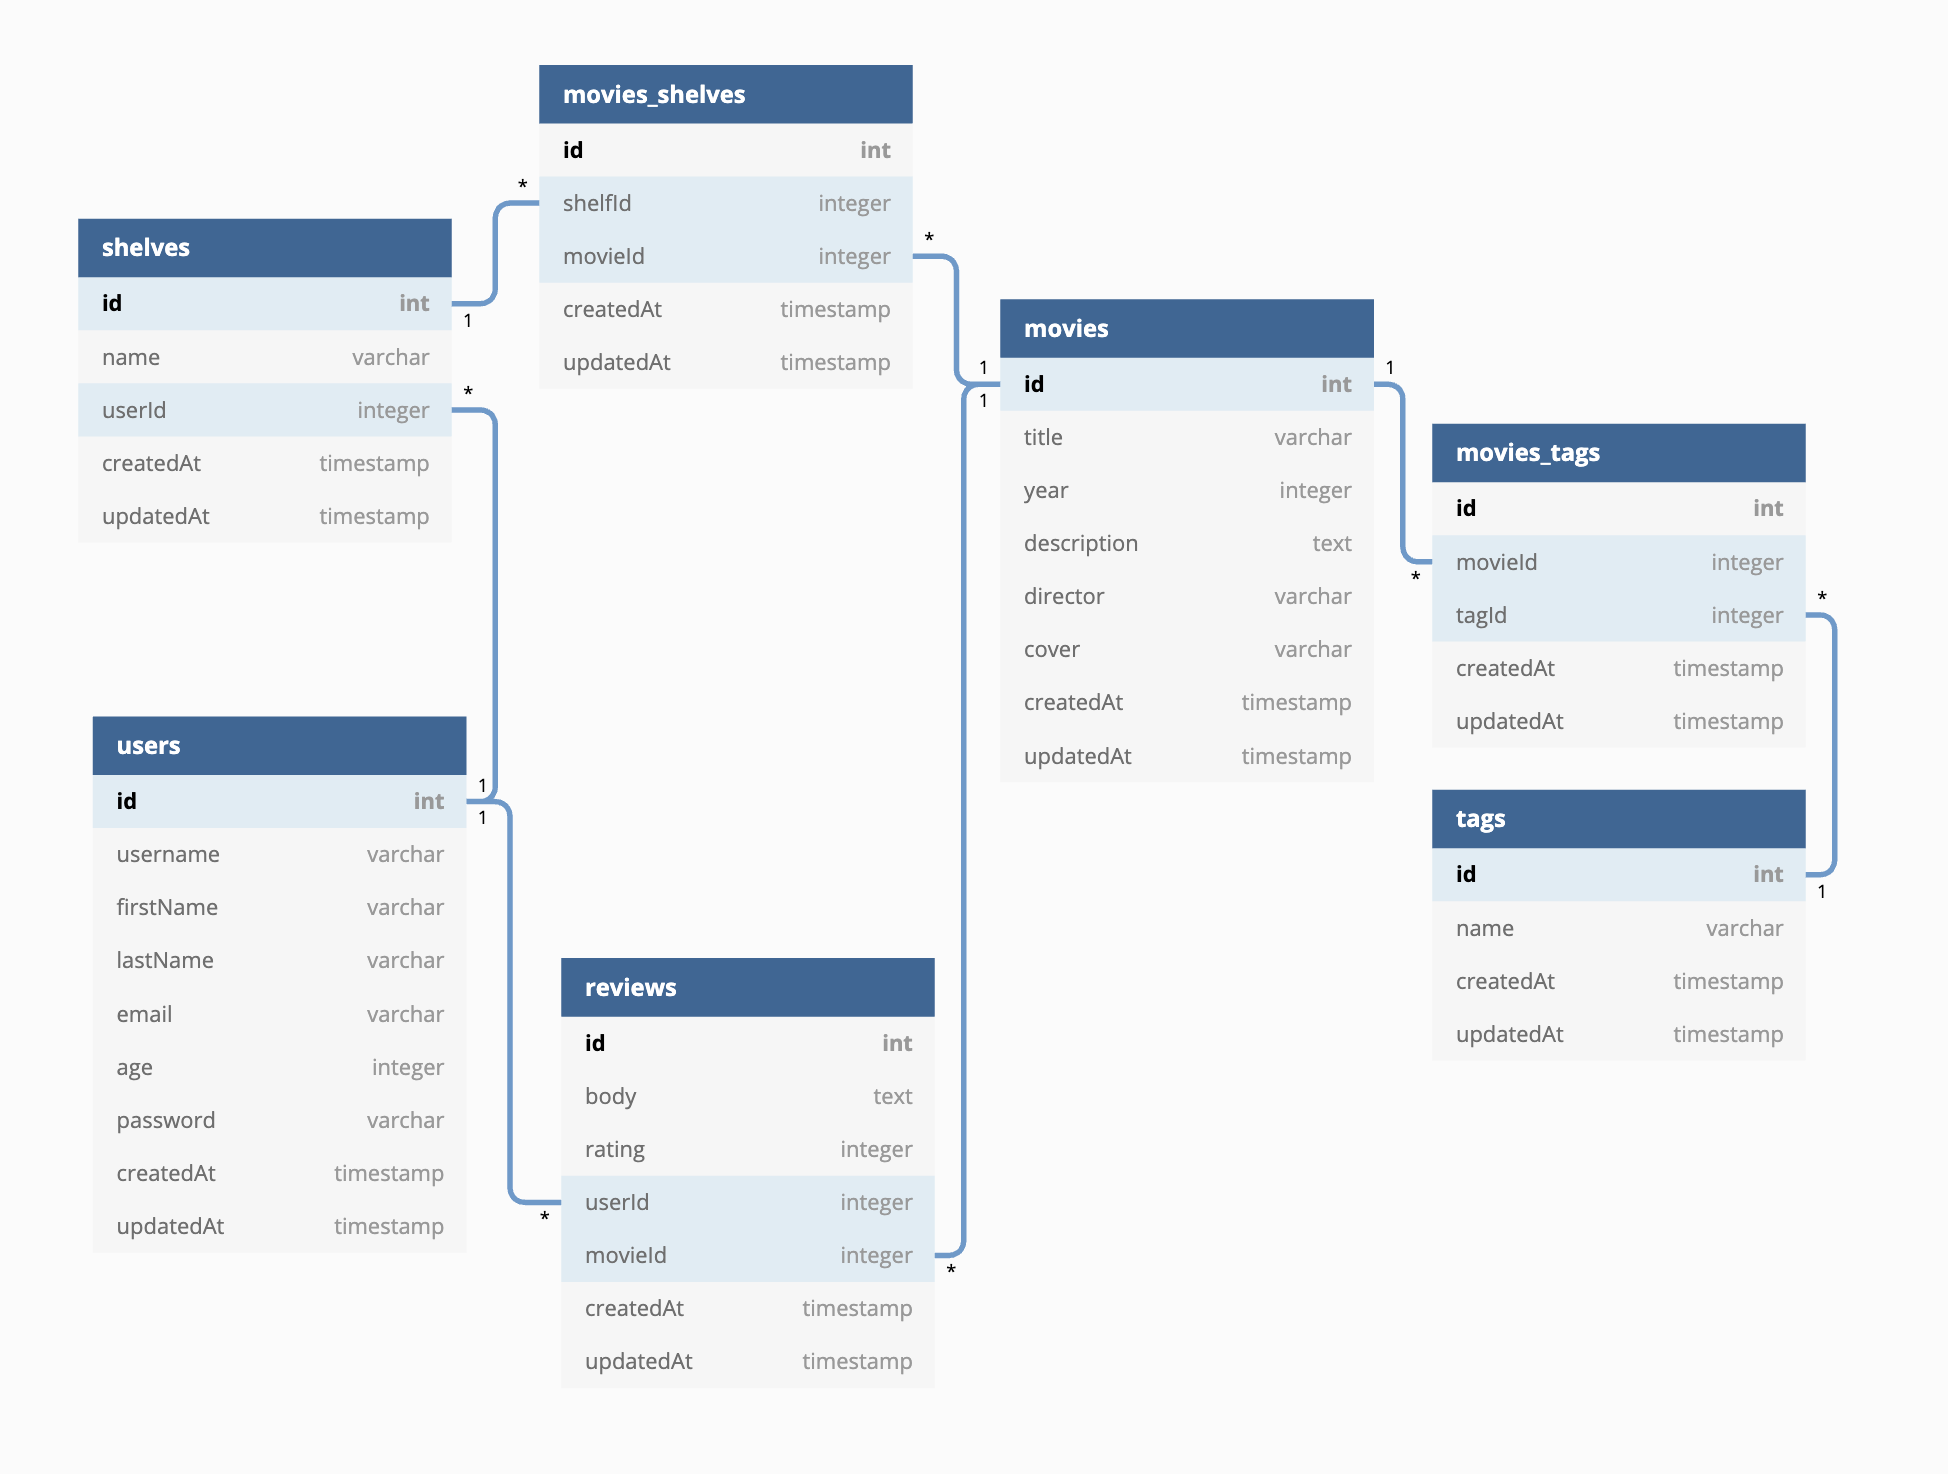
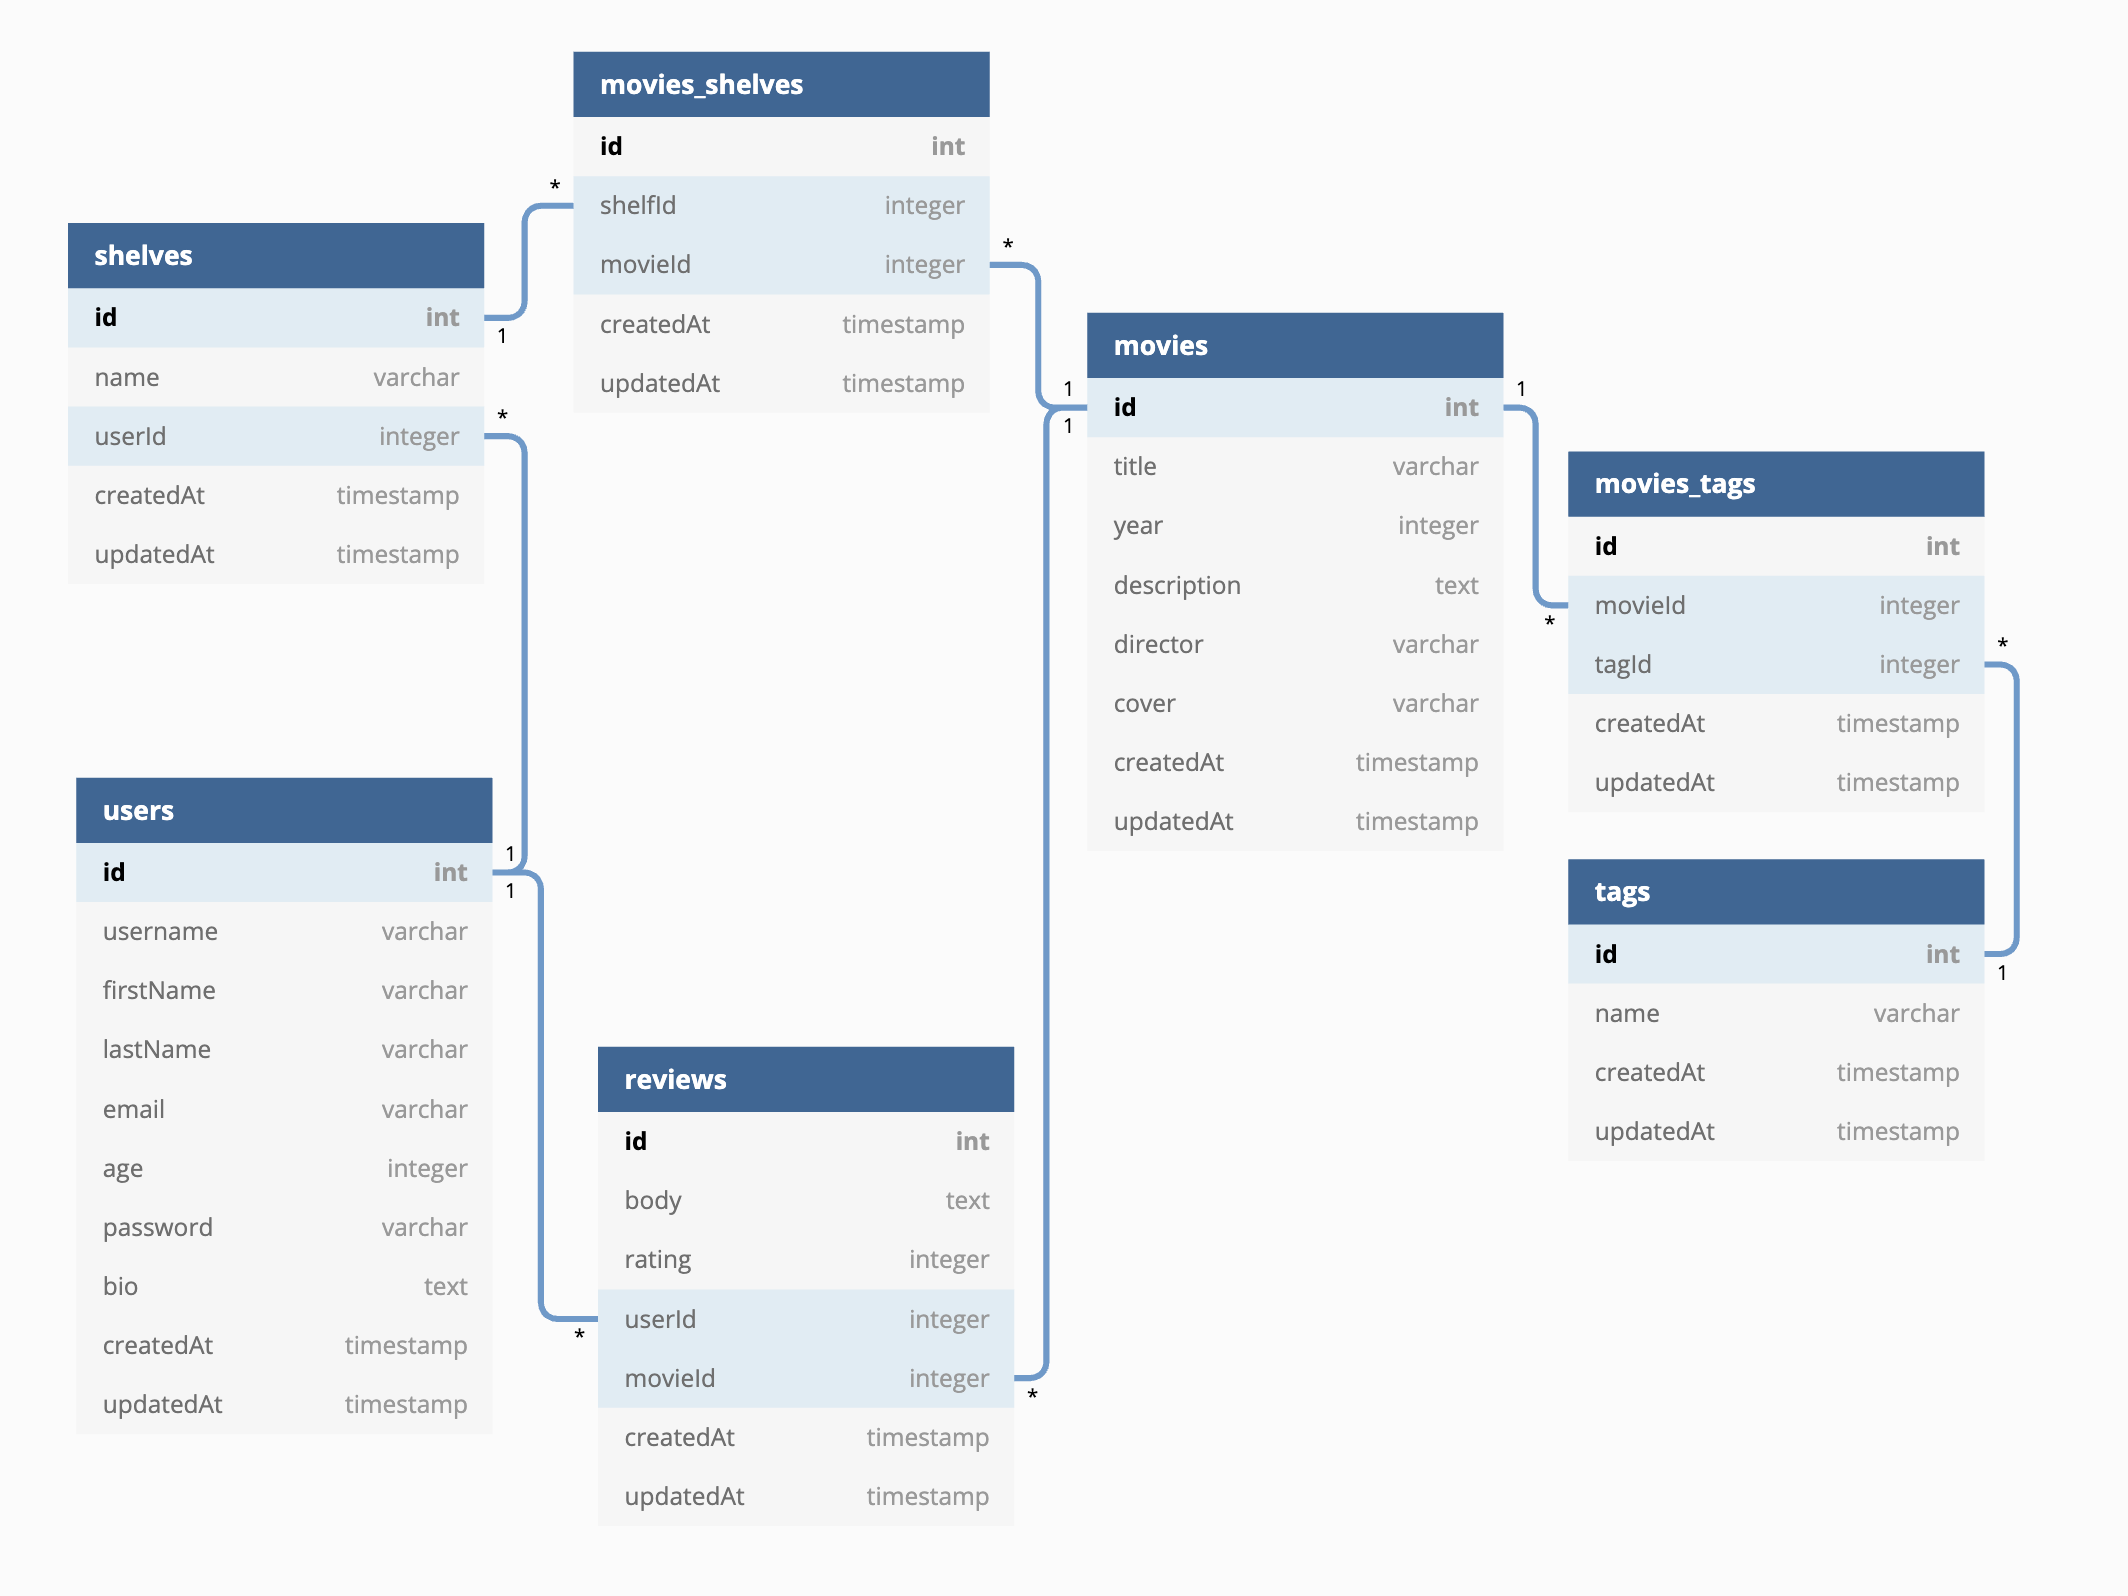
Footer image, spacing, review divider, db additions, images

diff --git a/db/seeders/20210727155522-default-users.js b/db/seeders/20210727155522-default-users.js
@@ -16,6 +16,7 @@ module.exports = {
 					email: 'demo@demo.com',
 					age: 25,
 					password: demoPassword,
+					bio: '',
 					createdAt: new Date(),
 					updatedAt: new Date(),
 				},
@@ -26,36 +27,40 @@ module.exports = {
 					email: 'tanner@demo.com',
 					age: 25,
 					password: demoPassword,
+					bio: '#1 Horror Fan',
 					createdAt: new Date(),
 					updatedAt: new Date(),
 				},
 				{
-					username: 'Moncef',
+					username: 'frankenstein',
 					firstName: 'Moncef',
 					lastName: 'Sebata',
 					email: 'moncef@demo.com',
 					age: 25,
 					password: demoPassword,
+					bio: 'Victor, the (not mad) scientist. Not that other guy.',
 					createdAt: new Date(),
 					updatedAt: new Date(),
 				},
 				{
-					username: 'Amanda',
+					username: 'elvira',
 					firstName: 'Amanda',
 					lastName: 'Hinton',
 					email: 'amanda@demo.com',
 					age: 25,
 					password: demoPassword,
+					bio: 'Mistress of the Dark (TM), Horror Hostess, Horror Hotness',
 					createdAt: new Date(),
 					updatedAt: new Date(),
 				},
 				{
-					username: 'Walker',
+					username: 'boo',
 					firstName: 'Walker',
 					lastName: 'Williams',
 					email: 'walker@demo.com',
 					age: 25,
 					password: demoPassword,
+					bio: 'I am the thing that goes bump in the night',
 					createdAt: new Date(),
 					updatedAt: new Date(),
 				},
@@ -66,6 +71,7 @@ module.exports = {
 					email: 'admin@demo.com',
 					age: 25,
 					password: adminPassword,
+					bio: '👻🧛♂💀🐺 Welcome to HorrorHost! 🧟♂🤡🔪😈',
 					createdAt: new Date(),
 					updatedAt: new Date(),
 				},

diff --git a/public/stylesheets/index.css b/public/stylesheets/index.css
@@ -225,7 +225,7 @@ nav.navbar {
 /* ENTIRE SHELF: TITLE AND TILES */
 .shelf {
 	align-items: center;
-	margin-bottom: 75px;
+
 }
 
 /* FROM MIXIN: SHELF TITLE */
@@ -389,9 +389,7 @@ nav.navbar {
 	background-color: #ccc;
 	width: 350px;
 	position: relative;
-	top: 200px;
-	left: 50%;
-	transform: translate(-50%, -50%);
+	margin: 100px auto 0px;
 	border-radius: 4px;
 	display: flex;
 	flex-direction: column;
@@ -401,17 +399,9 @@ nav.navbar {
 
 .demo-box {
 	align-items: center;
+	margin: 50px auto 0px;
 }
 
-.register-box {
-	position: relative;
-	top: 430px;
-}
-
-.suggest-box {
-	position: relative;
-	top: 300px;
-}
 
 .form-label {
 	color: black;
@@ -487,7 +477,6 @@ nav.navbar {
 	height: 100px;
 	border: 3px solid #ff2800;
 	border-radius: 50%;
-
 	background-repeat: no-repeat;
 	background-position: center center;
 	background-size: cover;
@@ -520,7 +509,6 @@ li {
     background-repeat: no-repeat;
     background-size: 1000px;
 	background-position: top;
-    height: 750px;
     width: 100%;
 	margin-top: 50px;
 }
@@ -528,7 +516,6 @@ li {
 /* BACKGROUND IMAGES */
 .choice-scream {
     background-image: url("../images/scream.png");
-	background-position: 100% 50%;
 }
 
 .choice-login {

diff --git a/db/seeders/20210727204922-default-movies.js b/db/seeders/20210727204922-default-movies.js
@@ -546,10 +546,10 @@ module.exports = {
         },
         {
           title: 'The Host',
-          year: 2013,
-          description: 'When an unseen enemy threatens mankind by taking over their bodies and erasing their memories, Melanie Stryder risks everything to protect the people she cares about.',
-          director: 'Andrew Niccol',
-          cover: 'https://m.media-amazon.com/images/M/MV5BMjMwNDg1MTAzNV5BMl5BanBnXkFtZTcwNTk5ODI3OA@@._V1_SX300.jpg'
+          year: 2006,
+          description: "A monster emerges from Seoul's Han River and begins attacking people.One victim's loving family does what it can to rescue her from its clutches.",
+          director: 'Bong Joon Ho',
+          cover: 'https://m.media-amazon.com/images/M/MV5BMTE3N2IwNmMtOGE0Ny00NWFlLTliNmUtNjY3ODExYjgxNmUyXkEyXkFqcGdeQXVyMTMxODk2OTU@._V1_.jpg'
         },
         {
           title: 'Shaun of the Dead',

diff --git a/db/seeders/20210728155607-default_movie_shelves.js b/db/seeders/20210728155607-default_movie_shelves.js
@@ -39,6 +39,23 @@ const ourPicks = [
 		shelfId: 4,
 		movieId: 2,
 	},
+	{
+		shelfId: 4,
+		movieId: 5,
+	},
+	{
+		shelfId: 4,
+		movieId: 15,
+	},
+	{
+		shelfId: 4,
+		movieId: 63,
+	},
+	{
+		shelfId: 4,
+		movieId: 22,
+	},
+
 ];
 
 const gore = [
@@ -87,7 +104,7 @@ const moreComedy = [
 	},
 	{
 		shelfId: 6,
-		movieId: 11,
+		movieId: 79,
 	},
 	{
 		shelfId: 6,
@@ -96,6 +113,18 @@ const moreComedy = [
 ];
 
 const superSpooky = [
+	{
+		shelfId: 7,
+		movieId: 7,
+	},
+	{
+		shelfId: 7,
+		movieId: 44,
+	},
+	{
+		shelfId: 7,
+		movieId: 34,
+	},
 	{
 		shelfId: 7,
 		movieId: 93,

diff --git a/public/stylesheets/movie-detail.css b/public/stylesheets/movie-detail.css
@@ -104,6 +104,7 @@ select {
 	justify-content: center;
 	flex-direction: column;
 	padding: 10px;
+	margin-top: 15px;
 }
 
 .review-group {
@@ -112,6 +113,12 @@ select {
 	justify-content: center;
 	flex-direction: column;
 	padding: 5px;
+	margin-bottom: 10px;
+	border-bottom: .5px solid #ff2800;
+}
+
+.username {
+	margin: 5px 0 15px;
 }
 
 #shelf-name {

diff --git a/public/stylesheets/indexfooter.css b/public/stylesheets/indexfooter.css
@@ -2,5 +2,5 @@ body {
     background-image: url("../images/hands.png");
     background-repeat: no-repeat;
     background-size: 100% 30%;
-    background-position: 50% 100%;
+    background-position: bottom;
 }
